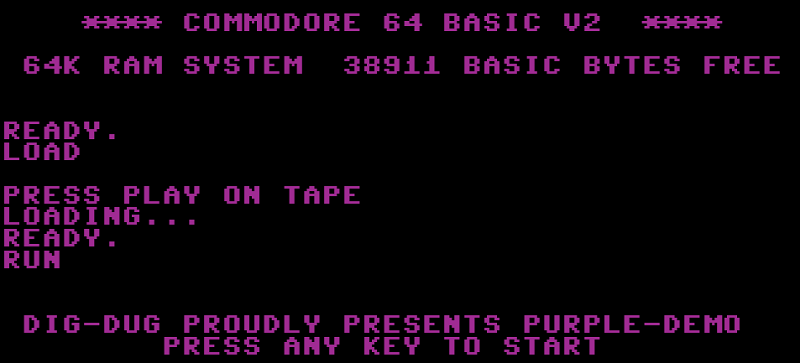
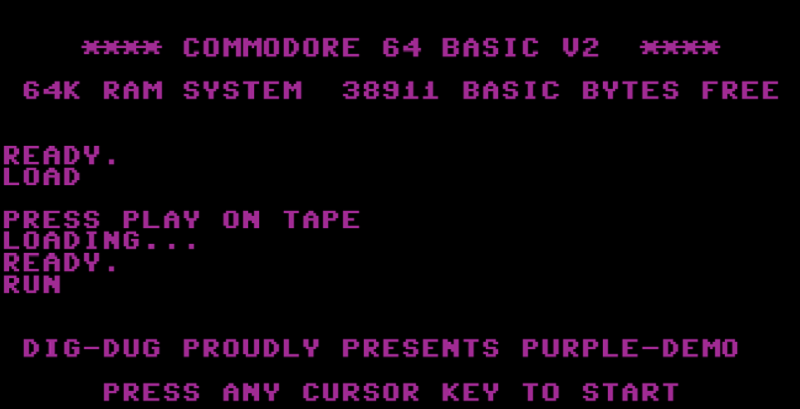
music

diff --git a/other/purple-intro/sprites.js b/other/purple-intro/sprites.js
@@ -1,40 +1,42 @@
 class DemoSprite {
 
-    constructor(scene, limitX){
+    constructor(scene, limitX = 805){
         this.scene = scene;
         this.limitX = limitX;
+        this.minX = -10;
+        this.walkingLeft = true;
+        this.speed = 1;
     }
 
     move(yPos){
-        if (yPos > 400)
-            ;
-        else{
-            this.sprite.x++;
-            }
+        if (this.walkingLeft)
+            this.moveLeft();
+        else
+            this.moveRight();
 
-        if (this.sprite.x > 2000){
-            this.sprite.x = 0;
+        if (this.sprite.x >= this.limitX || this.sprite.x < 1){
+            this.walkingLeft = !this.walkingLeft;
         }
     }
 
     moveLeft(){
         this.sprite.flipX = true;
-        if (this.sprite.x > -10){
-            this.sprite.x--;
+        if (this.sprite.x > this.minX){
+            this.sprite.x -= this.speed;
         }
     }
 
     moveRight(){
         this.sprite.flipX = false;
         if (this.sprite.x < this.limitX){
-            this.sprite.x++;
+            this.sprite.x += this.speed;
         }
     }
 }
 
 class DigDug extends DemoSprite{
     constructor(scene, limitX){
-        super(scene, 999);
+        super(scene);
         this.scene.anims.create({
             key: 'dig-dug-walk',
             frames: [
@@ -53,7 +55,7 @@ class DigDug extends DemoSprite{
 
 class Saboteur extends DemoSprite{
     constructor(scene){
-        super(scene);
+        super(scene, 1111);
         this.scene.anims.create({
             key: 'saboteur-walk',
             frames: [
@@ -64,9 +66,11 @@ class Saboteur extends DemoSprite{
             frameRate: 7,
             repeat: -1
         });
-        this.sprite = scene.add.sprite(0, 545, 'saboteur1');
+        this.sprite = scene.add.sprite(100, 545, 'saboteur1');
         this.sprite.setDepth(-5);
         this.sprite.play('saboteur-walk');
+        this.speed = 1;
+        this.walkingLeft = false;
     }
 }
 

diff --git a/other/purple-intro/scene1.js b/other/purple-intro/scene1.js
@@ -2,6 +2,8 @@ class Scene1 extends Phaser.Scene {
     constructor() {
         super({ key: 'Scene1' });
         this.yPos = 0;
+        this.digDugLeaving = false;
+        this.musicPlaying = false;
     }
 
     preload() {
@@ -9,27 +11,31 @@ class Scene1 extends Phaser.Scene {
         this.load.image('dig-dug2', 'pics/dig-dug2.png');
         this.load.image('dig-dug3', 'pics/dig-dug3.png');
         this.load.image('loading', 'pics/loading.png');
+        this.load.audio('backgroundMusic', 'fst.mp3');
     }
 
     create() {
         this.digdug = SpriteManager.createDigDug(this, 852);
 
-        this.input.keyboard.on('keydown', this.digdugLeave, this);
+        this.cursors = this.input.keyboard.createCursorKeys();
         this.add.sprite(400, 185, 'loading');
+        this.music = this.sound.add('backgroundMusic');
     }
 
     update(time, delta) {
-        //console.log(time + ", " + delta + ", ");
-        if (time < 8000)
-            this.digdug.moveLeft();
-        else if (time < 20000)
-            this.digdug.moveRight();
-        else if (time > 20000 && time <=31000)
-            this.digdug.moveLeft();
-
-        if (time > 31000){
-            this.digdugLeave();
+        if (this.cursors.up.isDown || this.cursors.down.isDown || this.cursors.left.isDown || this.cursors.right.isDown){
+            this.digDugLeaving = true;
+            this.digdug.speed = 4;
+            this.music.play();
+            this.playing = true;
         }
+
+        if (this.digDugLeaving){
+                this.digdugLeave();
+                return;
+            }
+
+        this.digdug.move();
     }
 
     digdugLeave(event){

diff --git a/other/purple-intro/index.html b/other/purple-intro/index.html
@@ -13,7 +13,7 @@
         <tr><td>&nbsp;</td><td id="intro-container"></td><td></td></tr>
         <tr><td style="width: 10%;  height: 10%">&nbsp;</td><td></td><td></td></tr>
         <tr><td style="width: 10%;  height: 10%">&nbsp;</td><td></td><td></td></tr>
-        <tr><td style="width: 10%;  height: 10%">&nbsp;</td><td><button id='play' onclick="playAudio();">play</button></td><td></td></tr>
+        <tr><td style="width: 10%;  height: 10%">&nbsp;</td><td><button id='play' onclick="">play</button></td><td></td></tr>
     </table>
     <script src="https://cdnjs.cloudflare.com/ajax/libs/phaser/3.55.2/phaser.min.js"></script>
     <script src="sprites.js"></script>
